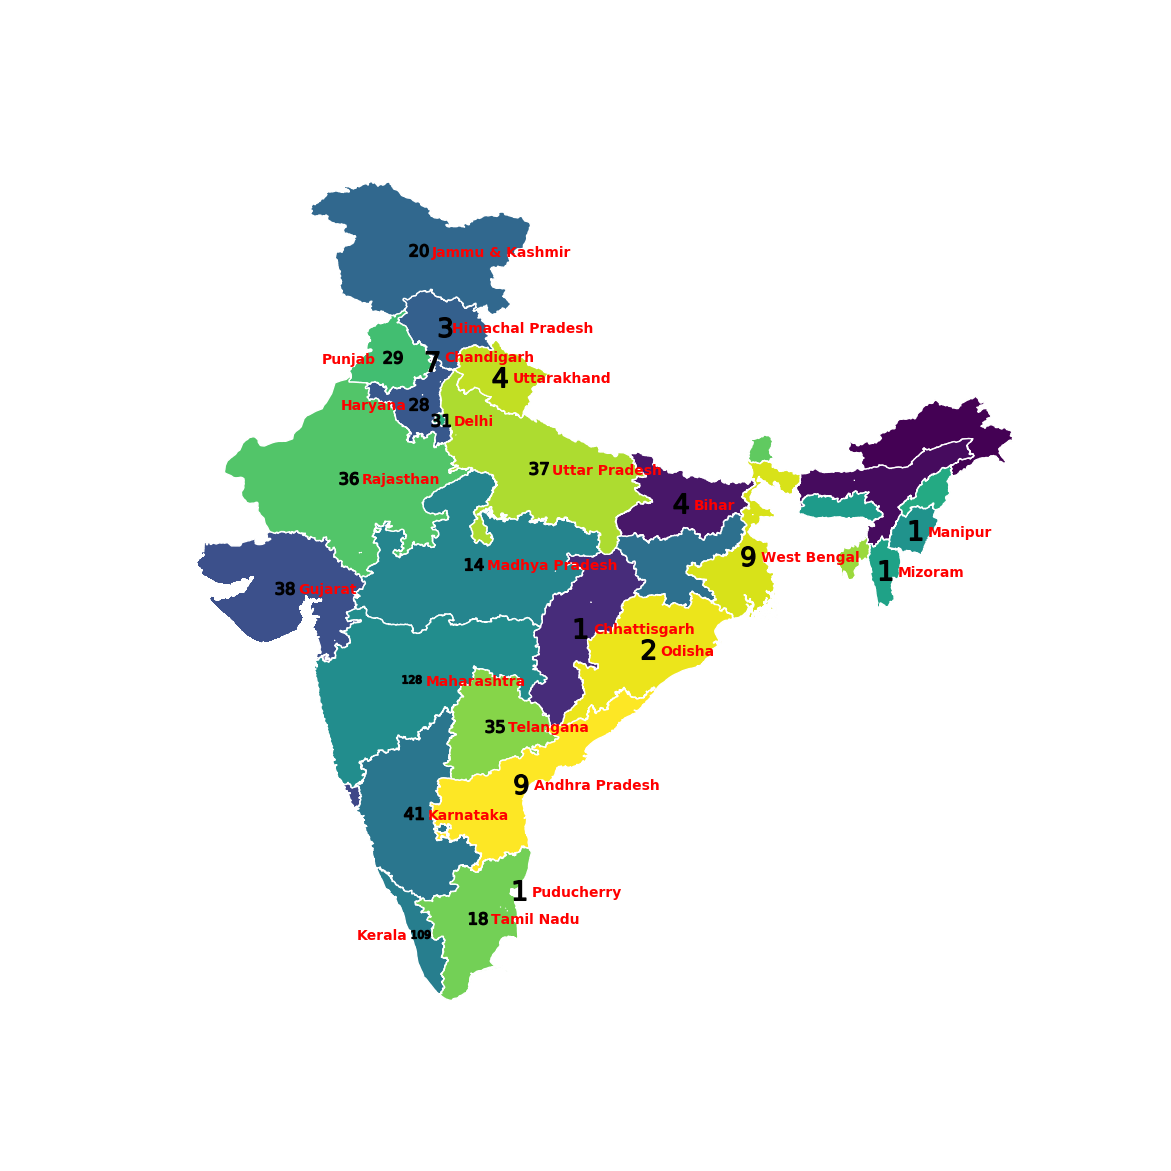
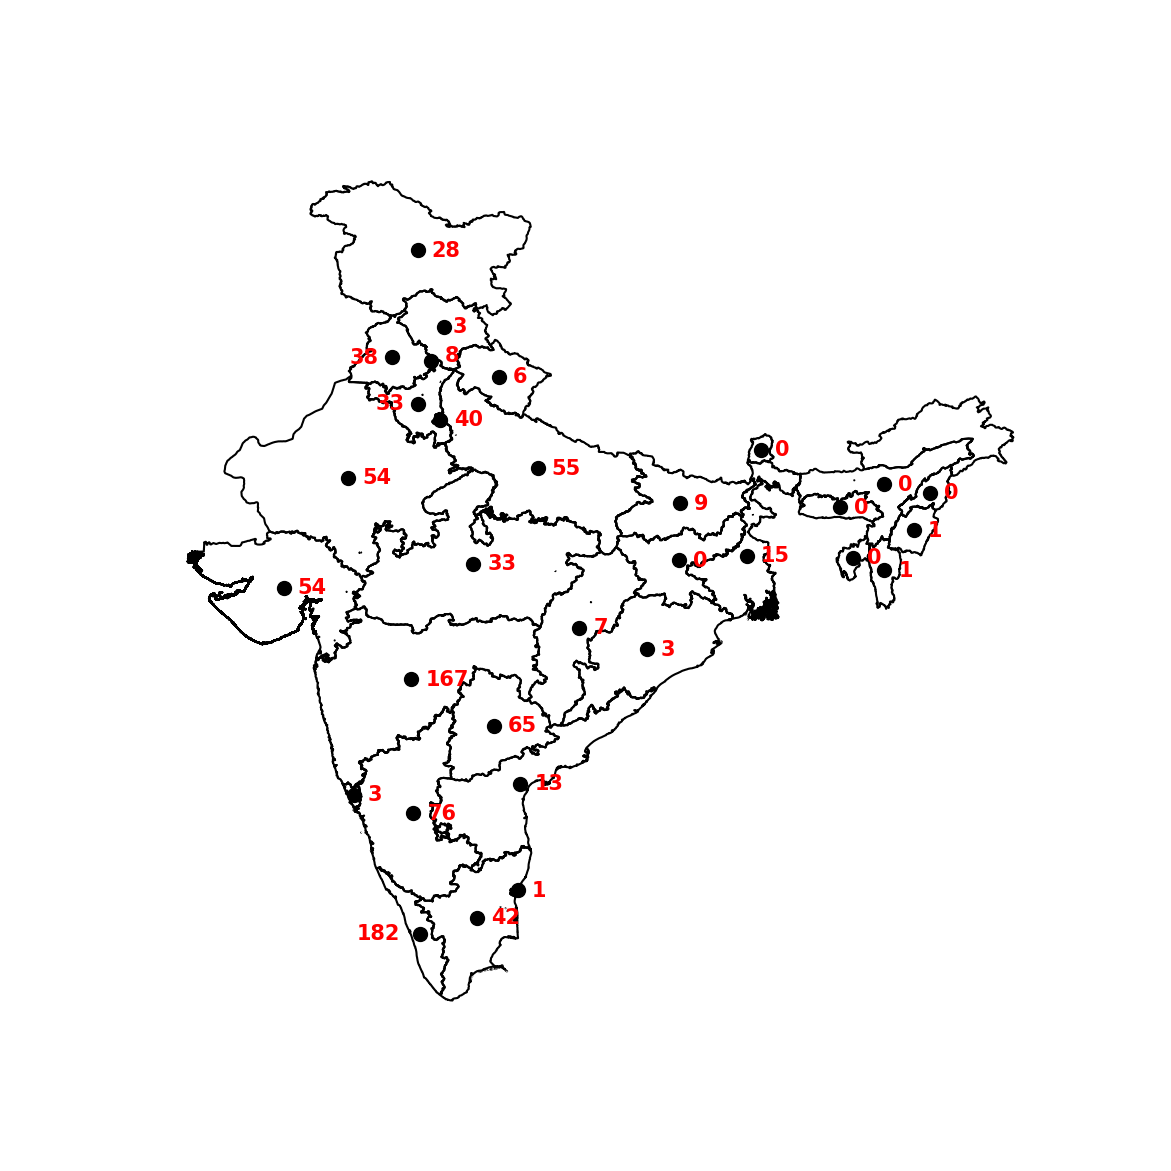
Updated with the latest api

Changed region(s): [[0.1537, 0.1537, 0.8608, 0.8608]]

diff --git a/map_generator.py b/map_generator.py
@@ -12,27 +12,46 @@ import urllib3
 # def calc_colour(value):
 
 if __name__ == "__main__":
-    # Load the JSON File and Fetch the Data
-    http = urllib3.PoolManager()
-    r = http.request('GET', 'http://corona.camcann.com/stats')
-    data =  json.loads(r.data.decode('utf-8'))
-    new = pd.DataFrame.from_dict(data['data']['regional'])
 
-    # Including the Ladakh UT stats along with Jammu and Kashmir Region Only and other Mofifications
-    for x in new.columns[:-1]:
-        new.loc[new['loc'] == 'Jammu and Kashmir',x] =   int(new.loc[new['loc'] == 'Jammu and Kashmir'][x].values + new.loc[new['loc'] == 'Ladakh'][x].values)
+    http = urllib3.PoolManager()
+    r = http.request('GET', 'https://api.covid19india.org/data.json')
+    data =  json.loads(r.data.decode('utf-8'))
+    newdata = {
+        "success": "true",
+        "data":{
+            "summary":{},
+            "regional":[]
+        }
+    }
+    states = data["statewise"]
+    for state in states:
+        if(state["state"] == "Total"):
+            tt = {}
+            tt["total"] = state["confirmed"]
+            tt["discharged"] = state["recovered"]
+            tt["deaths"] = state["deaths"]
+            newdata["data"]["summary"] = tt
+        else:
+            st = {}
+            st["loc"] = state["state"]
+            st["confirmedCases"] = state["confirmed"]
+            st["discharged"] = state["recovered"]
+            st["deaths"] = state["deaths"]
+            newdata["data"]["regional"].append(st)
+    new = pd.DataFrame.from_dict(newdata['data']['regional'])
+    print('Data Fetched')
+
     new.drop(new[new['loc'] == 'Ladakh'].index, inplace = True)
     new.loc[new['loc'] == 'Telengana', 'loc'] = 'Telangana'
     new.loc[new['loc'] == 'Jammu and Kashmir', 'loc'] = 'Jammu & Kashmir'
     new.reset_index(level=0, inplace=True)
     new.drop('index', axis = 1,inplace = True)
-    new.columns = ['confirmedCasesForeign', 'confirmedCasesIndian', 'deaths', 'discharged','st_nm']
+    new.columns = ['st_nm', 'confirmedCases', 'discharged','deaths']
     states = list(new['st_nm'])
 
 
-    # ## Initialize the Visualization and Read the Template
+    ## Initialize the Visualization and Read the Template
     image = cv2.imread('template2.png')
-    # image = cv2.resize(image, (1125,1125))
     image[np.where((image==[255,255,255]).all(axis=2))] = [0,0,0];
     sns.set(style = 'whitegrid', palette = 'pastel', color_codes = True)
     figsize = (image.shape[0]/96,image.shape[1]/96)
@@ -43,27 +62,24 @@ if __name__ == "__main__":
     sdf = gpd.read_file(shp_path)
 
     # Considering only the Mainland India and making modifications in dataframe
+    print('Setting up the Map')
     sdf.loc[sdf['st_nm'] == 'NCT of Delhi','st_nm'] = 'Delhi'
     sdf = sdf.iloc[1:,:]
     sdf.drop([16], inplace = True)
-    sdf.plot(cmap='viridis', scheme='quantiles')
+    sdf.boundary.plot(color = 'black')
 
     ssdf = pd.DataFrame(sdf[sdf['st_nm'].isin(states)])
     ssdf.reset_index(level=0, inplace=True)
     ssdf.drop('index', axis = 1, inplace = True)
-    print(ssdf)
     st_names = list(ssdf.st_nm)
-
 
     # Calculating centroid points
     ssdf['centroid_x'] = 0
     ssdf['centroid_y'] = 0
     ssdf['confirmedCases'] = 0
-    print(ssdf.columns)
-    print(new.columns)
     for i in ssdf.index:
         st = ssdf.loc[i]['st_nm']
-        cc = new.loc[new['st_nm'] == st]['confirmedCasesForeign'].values + new.loc[new['st_nm'] == st]['confirmedCasesIndian'].values
+        cc = new.loc[new['st_nm'] == st]['confirmedCases'].values
         ssdf.loc[i, 'centroid_x'] = ssdf.loc[i,'geometry'].centroid.x
         ssdf.loc[i, 'centroid_y'] = ssdf.loc[i,'geometry'].centroid.y
         ssdf.loc[i, 'confirmedCases'] = cc
@@ -72,29 +88,31 @@ if __name__ == "__main__":
     y_list = list(ssdf['centroid_y'])
     confirmedCases = list(ssdf['confirmedCases'])
 
-
-
-
-
     plt.axis('off')
     for i,st in enumerate(st_names):
-        # print(st)
-        if st == 'Punjab':
-            plt.text(x_list[i]-2.5,y_list[i]-0.2,st, fontsize=10,fontweight = 'extra bold', color = 'red')
-        elif st == "Chandigarh":
-            plt.text(x_list[i]+0.5,y_list[i],st, fontsize=10,fontweight = 'extra bold', color = 'red')
-        elif st == 'Himachal Pradesh':
-            plt.text(x_list[i]+0.3,y_list[i]-0.2,st, fontsize=10,fontweight = 'extra bold', color = 'red')
-        elif st == 'Haryana':
-            plt.text(x_list[i]-2.75,y_list[i]-0.2,st, fontsize=10,fontweight = 'extra bold', color = 'red')
-        elif st == 'Kerala':
-            plt.text(x_list[i]-2.25,y_list[i]-0.2,st, fontsize=10,fontweight = 'extra bold', color = 'red')
-        else:
-            plt.text(x_list[i]+0.5,y_list[i]-0.2,st, fontsize=10,fontweight = 'extra bold', color = 'red')
-        plt.scatter(x_list[i],y_list[i],c = 'black', s = 200, marker=r"$ {} $".format(confirmedCases[i]))
 
+        if st == 'Punjab':
+            plt.text(x_list[i]-1.5,y_list[i]-0.2,confirmedCases[i], fontsize=15,fontweight = 'extra bold', color = 'red')
+        elif st == "Chandigarh":
+            plt.text(x_list[i]+0.5,y_list[i],confirmedCases[i], fontsize=15,fontweight = 'extra bold', color = 'red')
+        elif st == 'Himachal Pradesh':
+            plt.text(x_list[i]+0.3,y_list[i]-0.2,confirmedCases[i], fontsize=15,fontweight = 'extra bold', color = 'red')
+        elif st == 'Haryana':
+            plt.text(x_list[i]-1.5,y_list[i]-0.2,confirmedCases[i], fontsize=15,fontweight = 'extra bold', color = 'red')
+        elif st == 'Kerala':
+            plt.text(x_list[i]-2.25,y_list[i]-0.2,confirmedCases[i], fontsize=15,fontweight = 'extra bold', color = 'red')
+        else:
+            plt.text(x_list[i]+0.5,y_list[i]-0.2,confirmedCases[i], fontsize=15,fontweight = 'extra bold', color = 'red')
+        plt.scatter(x_list[i],y_list[i],c = 'black', s = 100, marker='o')
+
+    mine = cv2.imread('map final 2.png')
     plt.savefig('map.png')
     map = cv2.imread('map.png')
     map = cv2.resize(map, (image.shape[0], image.shape[1]))
-    final = image + map
+    map[np.where((image==[255,255,255]).all(axis=2))] = [0,0,0];
+    mine = cv2.resize(mine, (image.shape[0], image.shape[1]))
+    alpha = 0.4
+    added_image = cv2.addWeighted(mine[:,:,:],alpha,map[:,:,:],1-alpha,0)
+    final = image + added_image
     cv2.imwrite('Final.png',final)
+    print('Image Generated')
